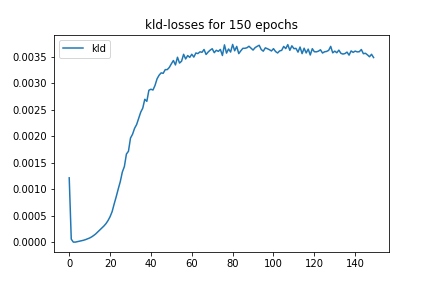
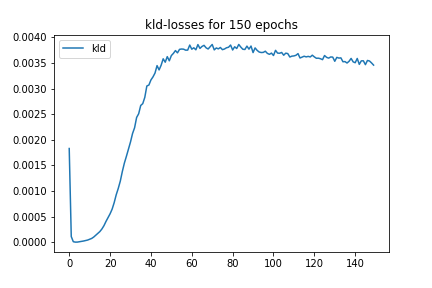
add new args to main for hidden-size and activat func

diff --git a/main.py b/main.py
@@ -43,7 +43,9 @@ parser.add_argument('--loss-name', type=str, default="cross-entropy", help='loss
 parser.add_argument('--min-df', type=int, default=10, help='minimal document frequency for vocab size')
 parser.add_argument('--num-topics', type=int, default=10, help='number of topics')
 parser.add_argument('--filter-stopwords', type=str, default="True", help='filter or not filter stopwords')
-
+parser.add_argument('--hidden-size', type=int, default=100, help='linear transformation')
+parser.add_argument('--activate-func', type=str, default="tanh", help='tanh oder ReLU activate function')
+parser.add_argument('--optimizer-name', type=str, default="adam", help='adam or sgd')
 args = parser.parse_args()
 
 
@@ -58,13 +60,18 @@ else:
 
 min_df = args.min_df
 num_topics = args.num_topics
+n_hidden_size = args.hidden_size
+activate_func = args.activate_func
+optimizer_name = args.optimizer_name
+
 filter_stopwords = args.filter_stopwords
 if filter_stopwords == "True":
-  topics_under_dir = "with_stopwords"
-  stopwords_filter = False
-else:
   topics_under_dir = "no_stopwords"
   stopwords_filter = True
+else:
+  topics_under_dir = "with_stopwords"
+  stopwords_filter = False
+print(f'filter-stopwords: {stopwords_filter}')
 
 
 #-----------------------check statistic--------------------------------
@@ -178,7 +185,7 @@ class OptimizerArguments:
 train_args = TrainArguments(epochs=epochs, 
                             batch_size=1000, 
                             log_interval=None)
-optimizer_args = OptimizerArguments(optimizer_name="adam", 
+optimizer_args = OptimizerArguments(optimizer_name= optimizer_name, 
                                     lr=0.002, 
                                     wdecay=0.0000012)
 
@@ -203,10 +210,10 @@ del embedding_vocab
 
 #---------------------------etm-model setting parameters--------------------------------
 #num_topics = 50
-t_hidden_size = 800
+t_hidden_size = n_hidden_size #args.hidden_size
 rho_size = len(embedding_data[0])
 emb_size = len(embedding_data[0])
-theta_act = "ReLU"
+theta_act = activate_func #args.activate_func #"ReLU"
 
 #--------------------------etm model setting-------------------------------------------
 etm_model = ETM(
@@ -269,14 +276,17 @@ for name, bow_documents in dataset.items():
     if name == 'train':
         tc = topicCoherence2(topics,len(topics),docs_tr,len(docs_tr))
         td = topicDiversity(topics)
+        print(f'topic-coherrence: {tc}')
+        print(f'topic-diversity: {td}')
+
     else:
         # test dataset - test_topics
         # continue
         print("no coherrence")
     
     eval_f = open(f'{save_topics_path}/{num_topics}_evaluation.txt', 'a')
-    eval_f.write(f'name \t epochs\t topic-coherrence \t topic-diversity \t quality\n')
-    eval_f.write(f'{name} \t {epochs} \t {tc} \t {td} \t {tc*td}\n')
+    eval_f.write(f'epochs \t n-hidden-size \t activate-func \t optimizer \t coherrence \t diversity \t quality\n')
+    eval_f.write(f'{epochs} \t{t_hidden_size} \t {activate_func} \t {optimizer_name} \t {tc} \t {td} \t {tc*td}\n')
     eval_f.close()
 del dataset
 
